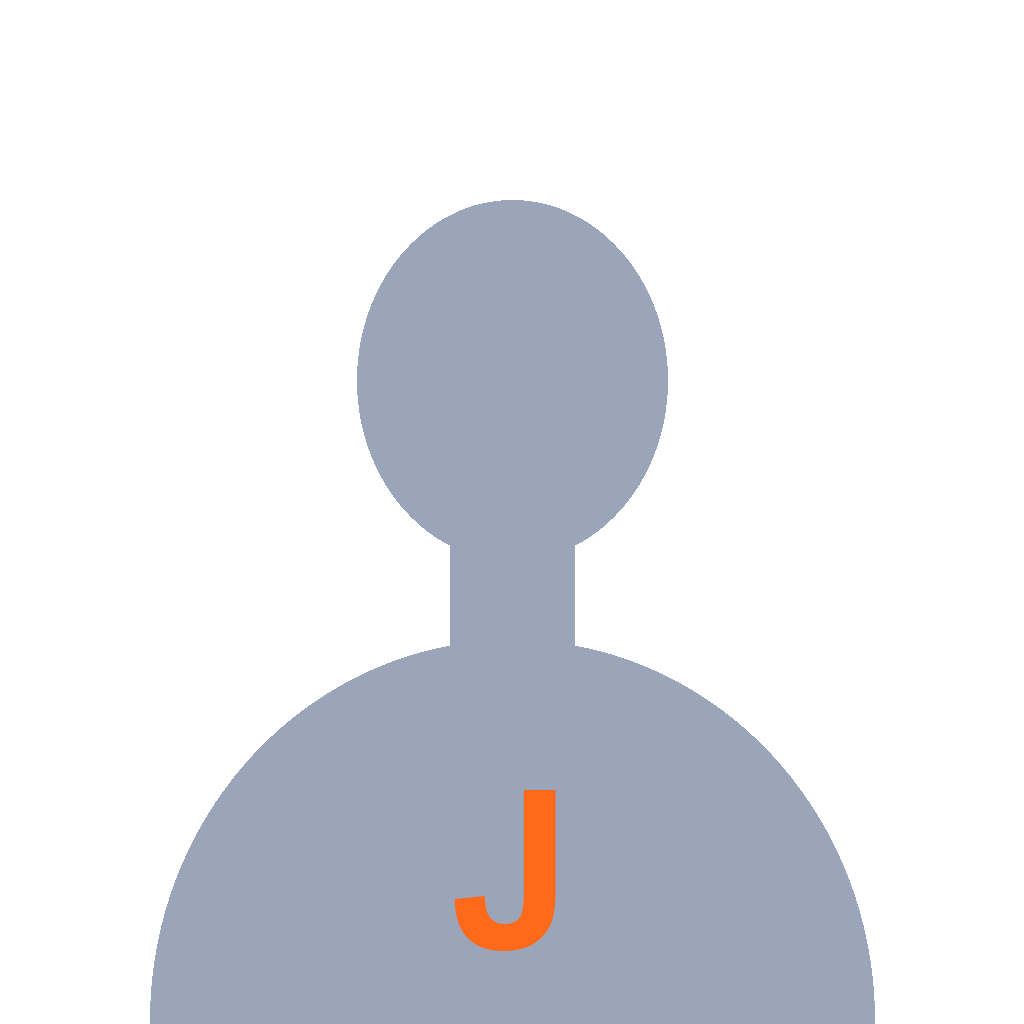
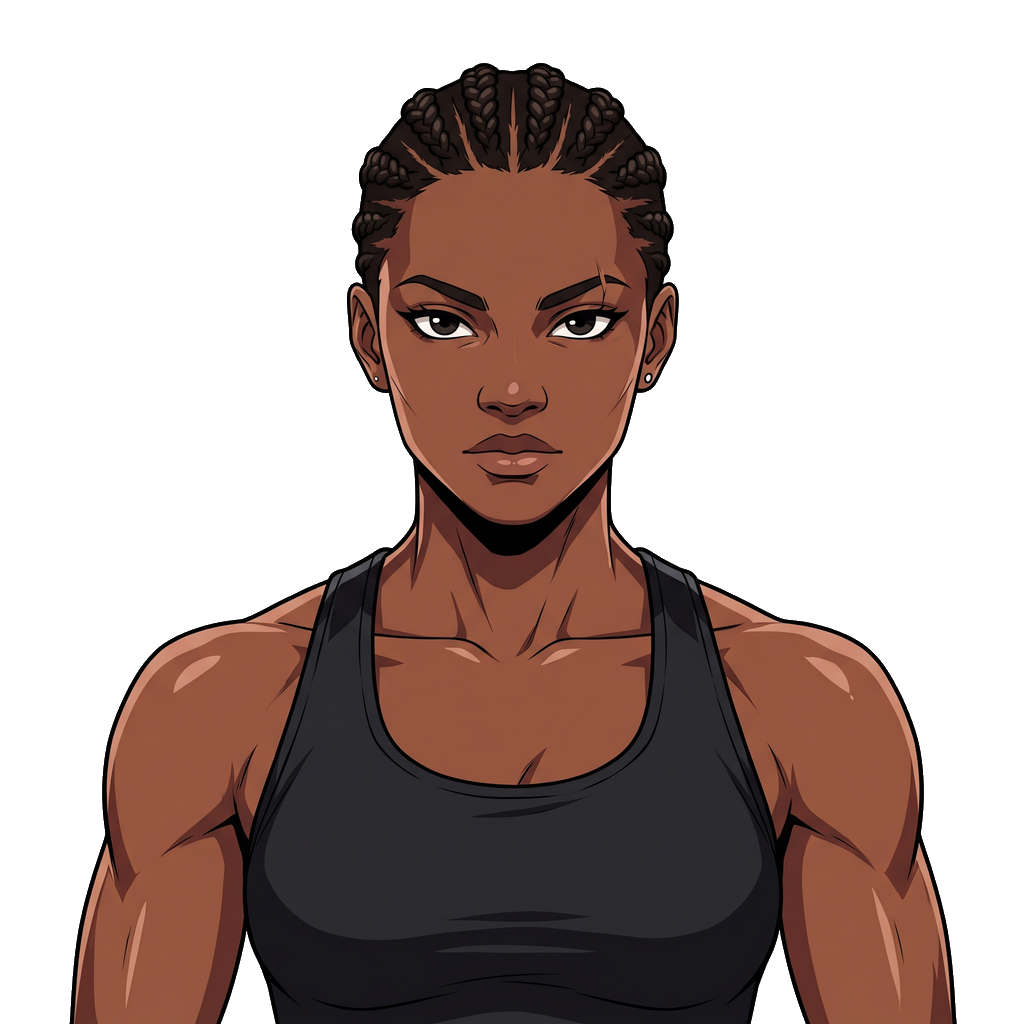
feat: LEON・JADEの本番イラストを追加
- 仮のシルエット画像を本番イラストに差し替え（2048pxのJPGを1024pxのPNGに変換し、
  remove-checkerboard.pyで背景を透過化。ライト/ダーク両背景で確認済み）
- docs/character-prompts.md と CLAUDE.md の「仮画像」記述を更新

diff --git a/CLAUDE.md b/CLAUDE.md
@@ -185,7 +185,7 @@
 
 - 2026-10-12: 見た目が被る日本人男性（DAIKI・KENJI）を外し、性格の枠（診断の配点・セリフの強さ）をLEON（理論派）・JADE（ストイック）に引き継いだ。旧IDは端末側 `getProfile()` とサーバー側 `LEGACY_TRAINER_IDS` で後継キャラへ自動移行
 - 外国出身キャラ（RACHELL・LEON・JADE・BILLY）も「片言の日本語」にはしない（ペルソナの【禁止】に明記）
-- LEON・JADEの画像は現在シルエットの仮画像。作成手順とプロンプトは `docs/character-prompts.md`
+- LEON・JADEの画像は2026-10-12に本番イラストへ差し替え済み（作成プロンプトと差し替え手順は `docs/character-prompts.md`。他キャラを作り直すときも同じ手順）
 
 チャット時はトレーナー固有の口調・経歴・一人称で応答（edge functionのシステムプロンプトで規定）。コーチ共存プレゼンス（K/H）はモード表示のみ担当。
 

diff --git a/docs/character-prompts.md b/docs/character-prompts.md
@@ -1,7 +1,7 @@
 # 新トレーナー画像の作成メモ（LEON / JADE）
 
 2026-10-12、見た目が被っていた日本人男性キャラ（DAIKI・KENJI）を外し、性格の枠を新キャラ2人に引き継いだ。
-今は `public/gazou/leon_bu.png` / `jade_bu.png` にシルエットの仮画像が入っている。本物のイラストができたら差し替える。
+2026-10-12に本番イラストへ差し替え済み（下のプロンプトで生成した画像を、下の手順で透過化）。
 
 ## 画像の条件（既存8人と揃える）
 
